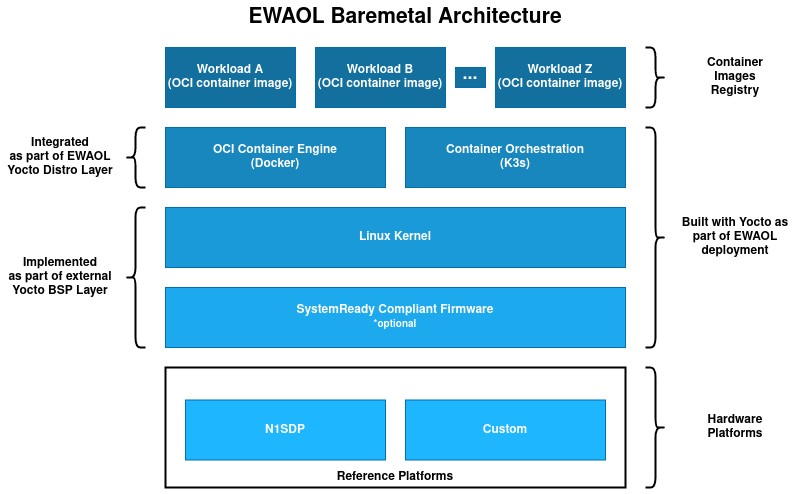
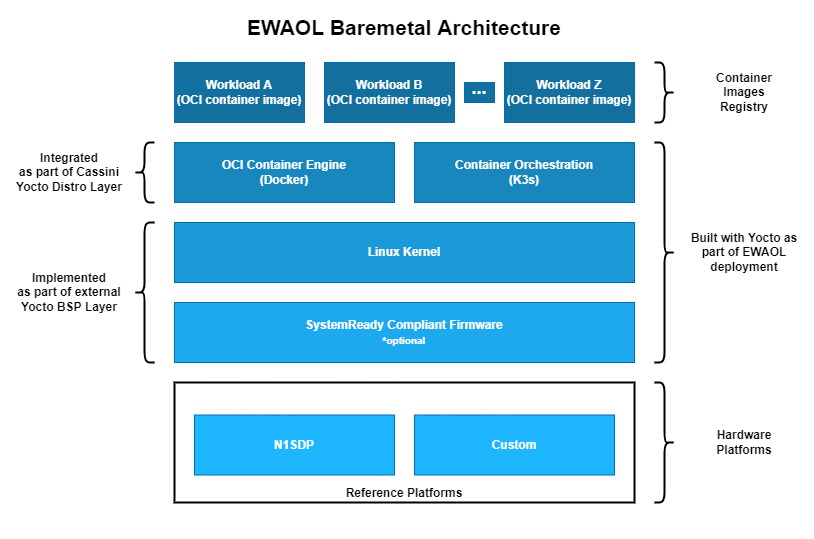
doc: Updates to reflect Project Cassini dependency
These are the following changes:
* Reflect the baremetal feature for EWAOL is inherited from
Project Cassini (meta-cassini).
* Reflect Docker container engine and K3s container orchestration
framework are inherited from Cassini.
* Add features provided by `cassini.conf`
* Update security hardening details.
* Update EWAOL dependency layers to include meta-cassini details.
* Update high level overview of the EWAOL project.
* Add meta-cassini repository related variables.

Issue-Id: OSSEMBEDA-1815

diff --git a/documentation/variables.py b/documentation/variables.py
@@ -77,10 +77,12 @@ layer_definitions = {
   "meta-openembedded branch": f"{yocto_release}",
   "meta-virtualization branch": f"{yocto_release}",
   "meta-arm branch": f"{yocto_release}",
+  "meta-cassini branch": "cassini-integration",
   "poky revision": "453be4d258f71855205f45599eea04589eb4a369",
   "meta-virtualization revision": "2fae71cdf0e8c6f398f51219bdf31eac76c662ec",
   "meta-openembedded revision": "166ef8dbb14ad98b2094a77fcf352f6c63d5abf2",
   "meta-arm revision": "fc09cc0e8db287600625e64905170a6de24f2686",
+  "meta-cassini revision": "HEAD",
   "layer dependency statement": f"The layer revisions are related to the EWAOL ``{ewaol_version}`` release.",
 }
 

diff --git a/documentation/introduction.rst b/documentation/introduction.rst
@@ -31,16 +31,19 @@ software layers:
     functionalities and facilitate deployment and orchestration of user
     application workloads. These tools and services include the Docker container
     engine, the K3s container orchestration framework, and Xen virtualization
-    management software, together with their run-time dependencies. In addition,
-    EWAOL provides supporting packages such as those which enable run-time
-    validation tests or software development capabilities on the target platform.
+    management software, together with their run-time dependencies. The
+    integration of the Docker container engine and the K3s container
+    orchestration framework is inherited from the ``meta-cassini-distro`` Yocto
+    layer, as provided by Project Cassini. In addition, EWAOL provides
+    supporting packages such as those which enable run-time validation tests or
+    software development capabilities on the target platform.
 
   * **System software**:
 
     System software specific to the target platform, composed of firmware,
     bootloader and the operating system, as well as the Xen type-1 hypervisor
     when building an EWAOL distribution with hardware virtualization support.
-    Note that this system software is not directly developed as part of the
+    This system software is not directly developed as part of the
     EWAOL project, but is instead integrated from the meta-arm, meta-arm-bsp,
     and meta-virtualization Yocto layers in order to provide an example EWAOL
     reference stack on the N1SDP hardware target platform.
@@ -127,8 +130,6 @@ Features Overview
 EWAOL includes the following major features:
 
   * Support for two architectural use-cases (Baremetal, and Virtualization).
-  * Container engine and runtime with Docker and runc-opencontainers.
-  * Container workload orchestration with the K3s Kubernetes distribution.
   * Hardware virtualization support with the Xen type-1 hypervisor.
   * On-target development support with optionally included Software Development
     Kit.
@@ -136,12 +137,18 @@ EWAOL includes the following major features:
     build-time kernel configuration checks.
   * Tools provided for quality assurance and build support.
 
-Other features of EWAOL include:
+Other features are provided by the following distributions, which EWAOL extends:
 
-  * The features provided by the ``poky.conf`` distribution, which EWAOL
-    extends.
-  * Systemd used as the init system.
-  * RPM used as the package management system.
+  * Poky distribution (``poky.conf``) from the ``meta-poky`` Yocto layer
+
+   * Systemd used as the init system.
+   * RPM used as the package management system.
+
+  * Cassini distribution (``cassini.conf``) from the
+    ``meta-cassini-distro`` Yocto layer
+
+   * Container engine and runtime with Docker and runc-opencontainers.
+   * Container workload orchestration with the K3s Kubernetes distribution.
 
 **********************
 Documentation Overview

diff --git a/documentation/manual/architectures.rst b/documentation/manual/architectures.rst
@@ -20,9 +20,9 @@ Baremetal Architecture
 .. image:: ../images/baremetal_architecture.png
    :align: center
 
-An EWAOL baremetal distribution image (``ewaol-baremetal-image``) is enabled if
-``ewaol-baremetal`` is included in ``DISTRO_FEATURES``. The image includes the
-following image features by default:
+A baremetal distribution image (``ewaol-baremetal-image``) is enabled if
+``ewaol-baremetal`` is included in ``DISTRO_FEATURES``. The image inherits
+the following image features from ``meta-cassini-distro``, by default:
 
   * Container engine and runtime with Docker and runc-opencontainers
   * Container workload orchestration with the K3s kubernetes distribution

diff --git a/documentation/manual/yocto_layers.rst b/documentation/manual/yocto_layers.rst
@@ -65,6 +65,11 @@ EWAOL depends on the following layer dependency sources:
     branch: |meta-virtualization branch|
     revision: |meta-virtualization revision|
 
+    URL: https://git.gitlab.arm.com/ewaol/meta-ewaol
+    layer: meta-cassini-distro
+    branch: |meta-cassini branch|
+    revision: |meta-cassini revision|
+
 An additional layer dependency source is conditionally required, depending on
 the specific EWAOL distribution image being built. This layer dependency source
 is the ``meta-arm`` repository, which provides three Yocto layers:

diff --git a/documentation/manual/hardening.rst b/documentation/manual/hardening.rst
@@ -8,7 +8,8 @@ Security Hardening
 ##################
 
 EWAOL distribution images can be hardened to reduce potential sources or attack
-vectors of security vulnerabilities. EWAOL security hardening modifies the
+vectors of security vulnerabilities, by enabling the security features
+implemented by Project Cassini. This security hardening modifies the
 distribution to:
 
   * Force password update for each user account after first logging in.
